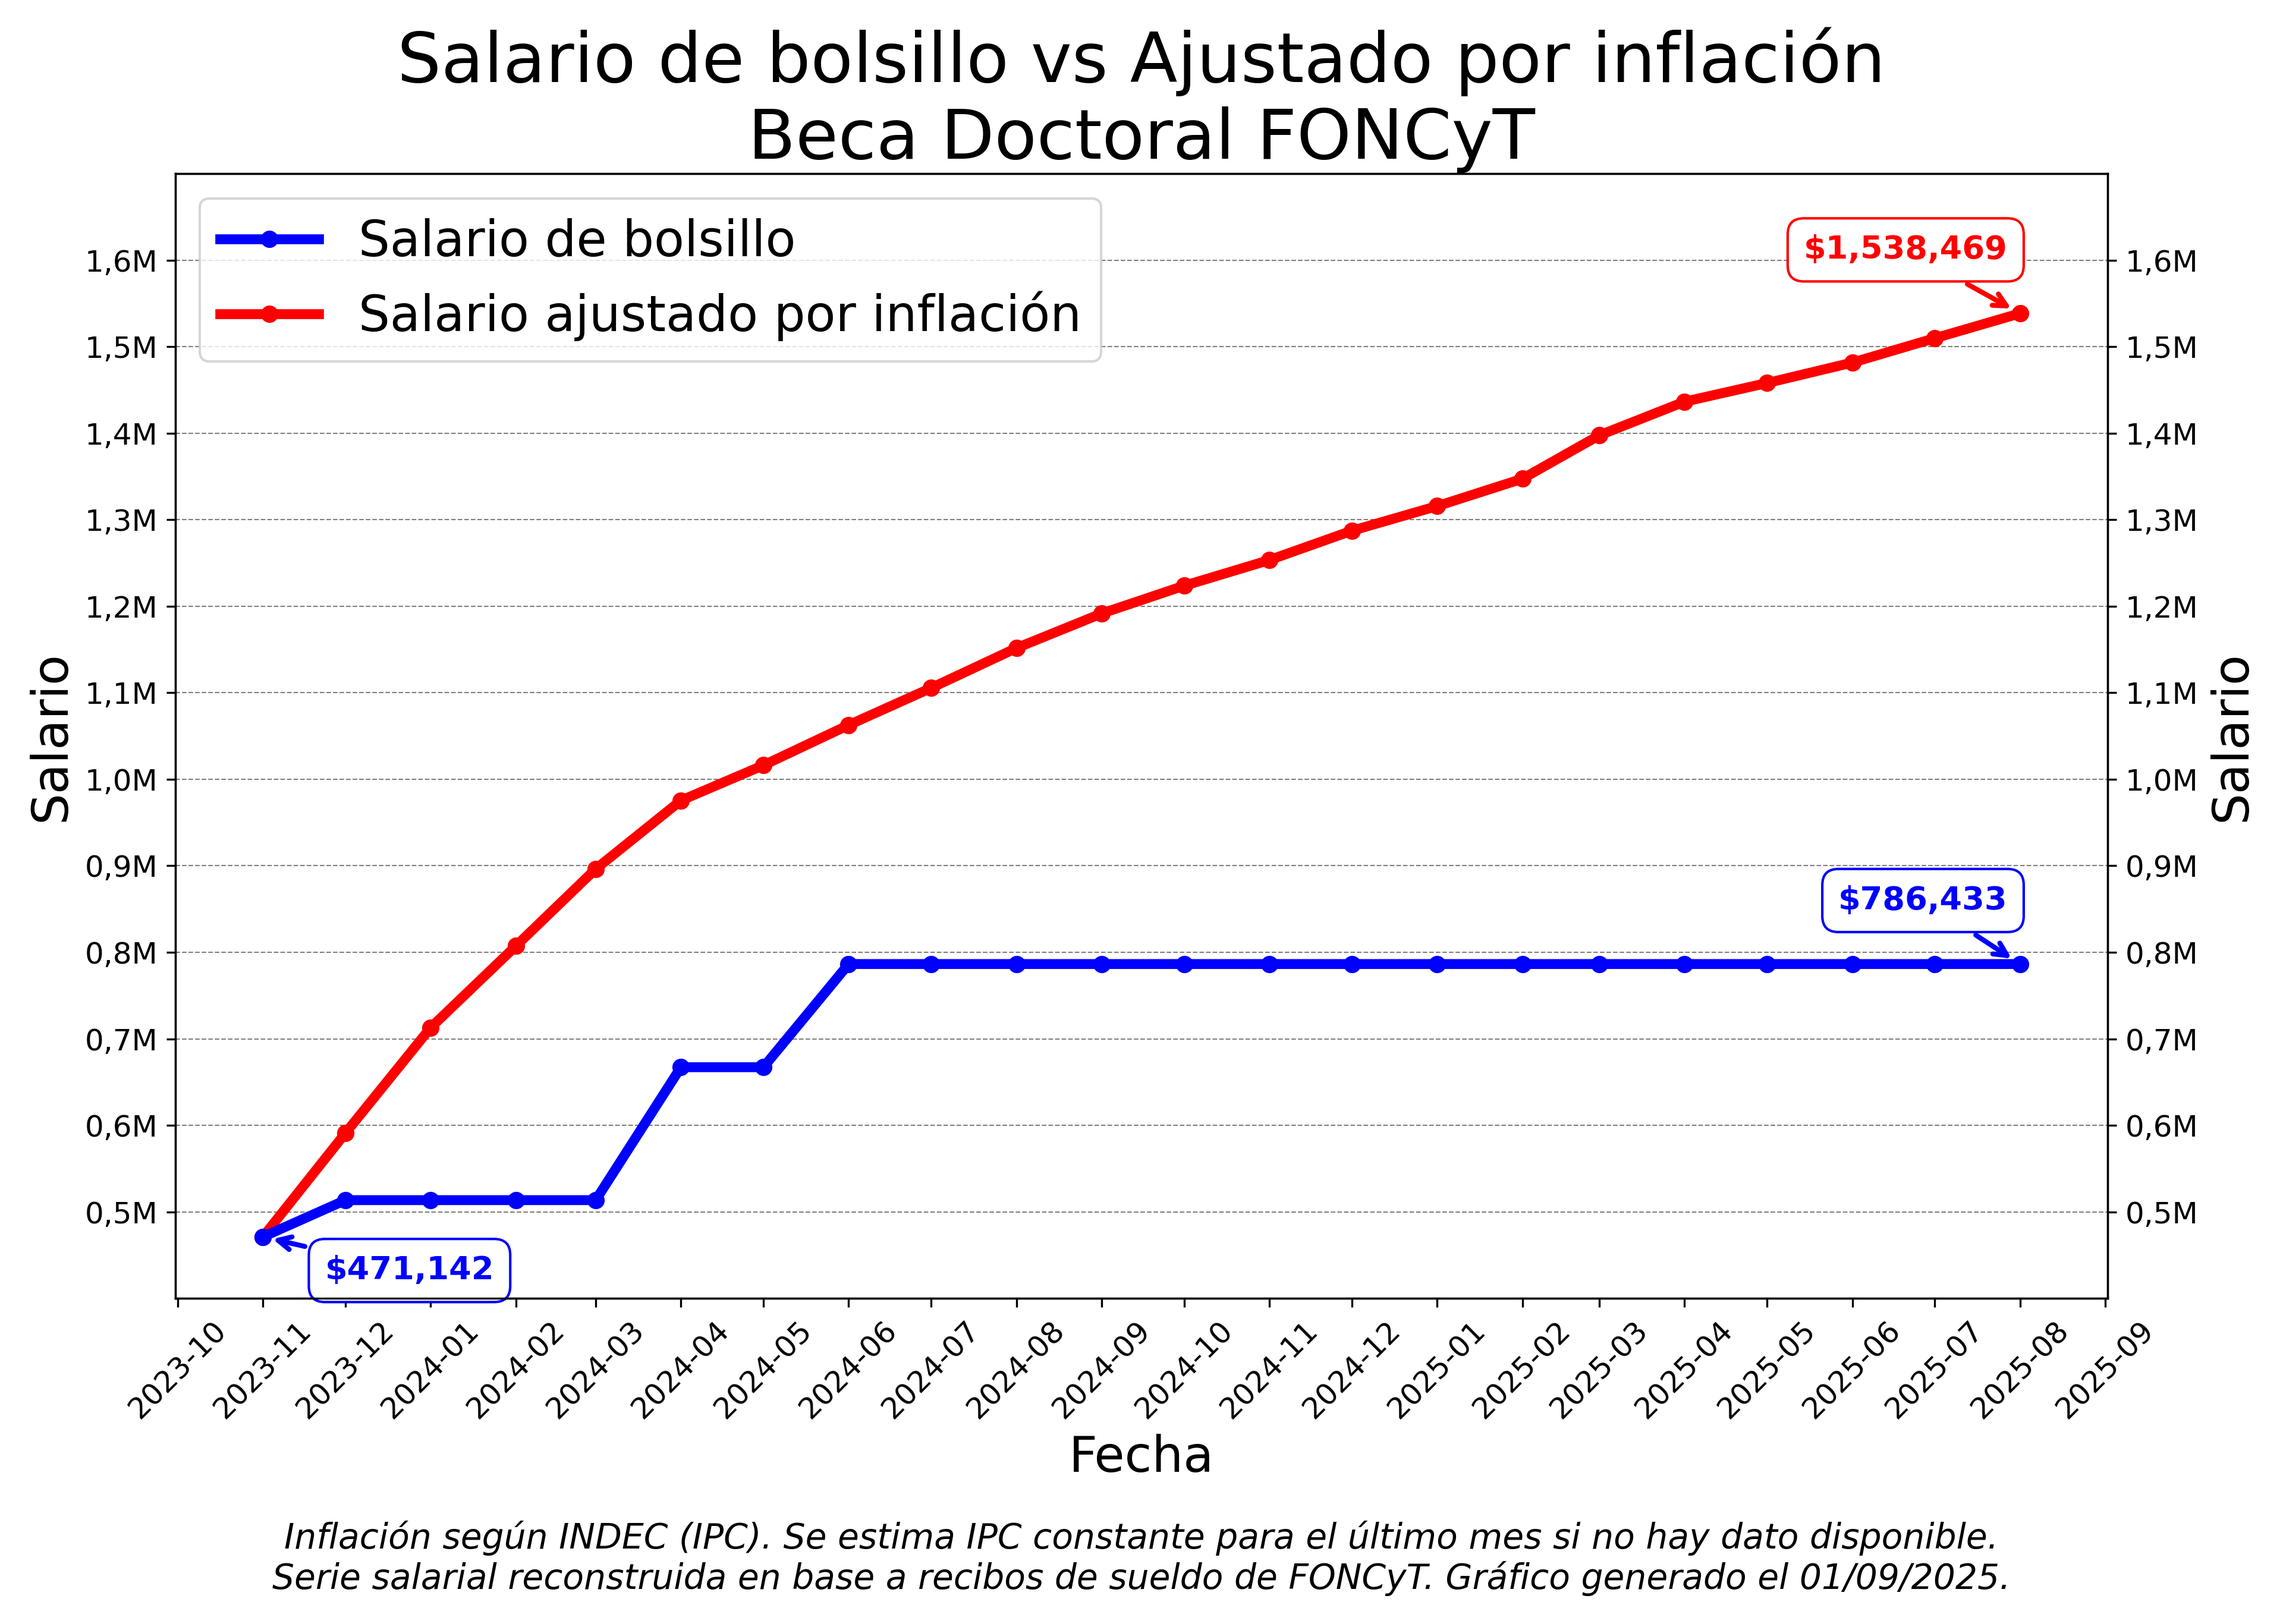
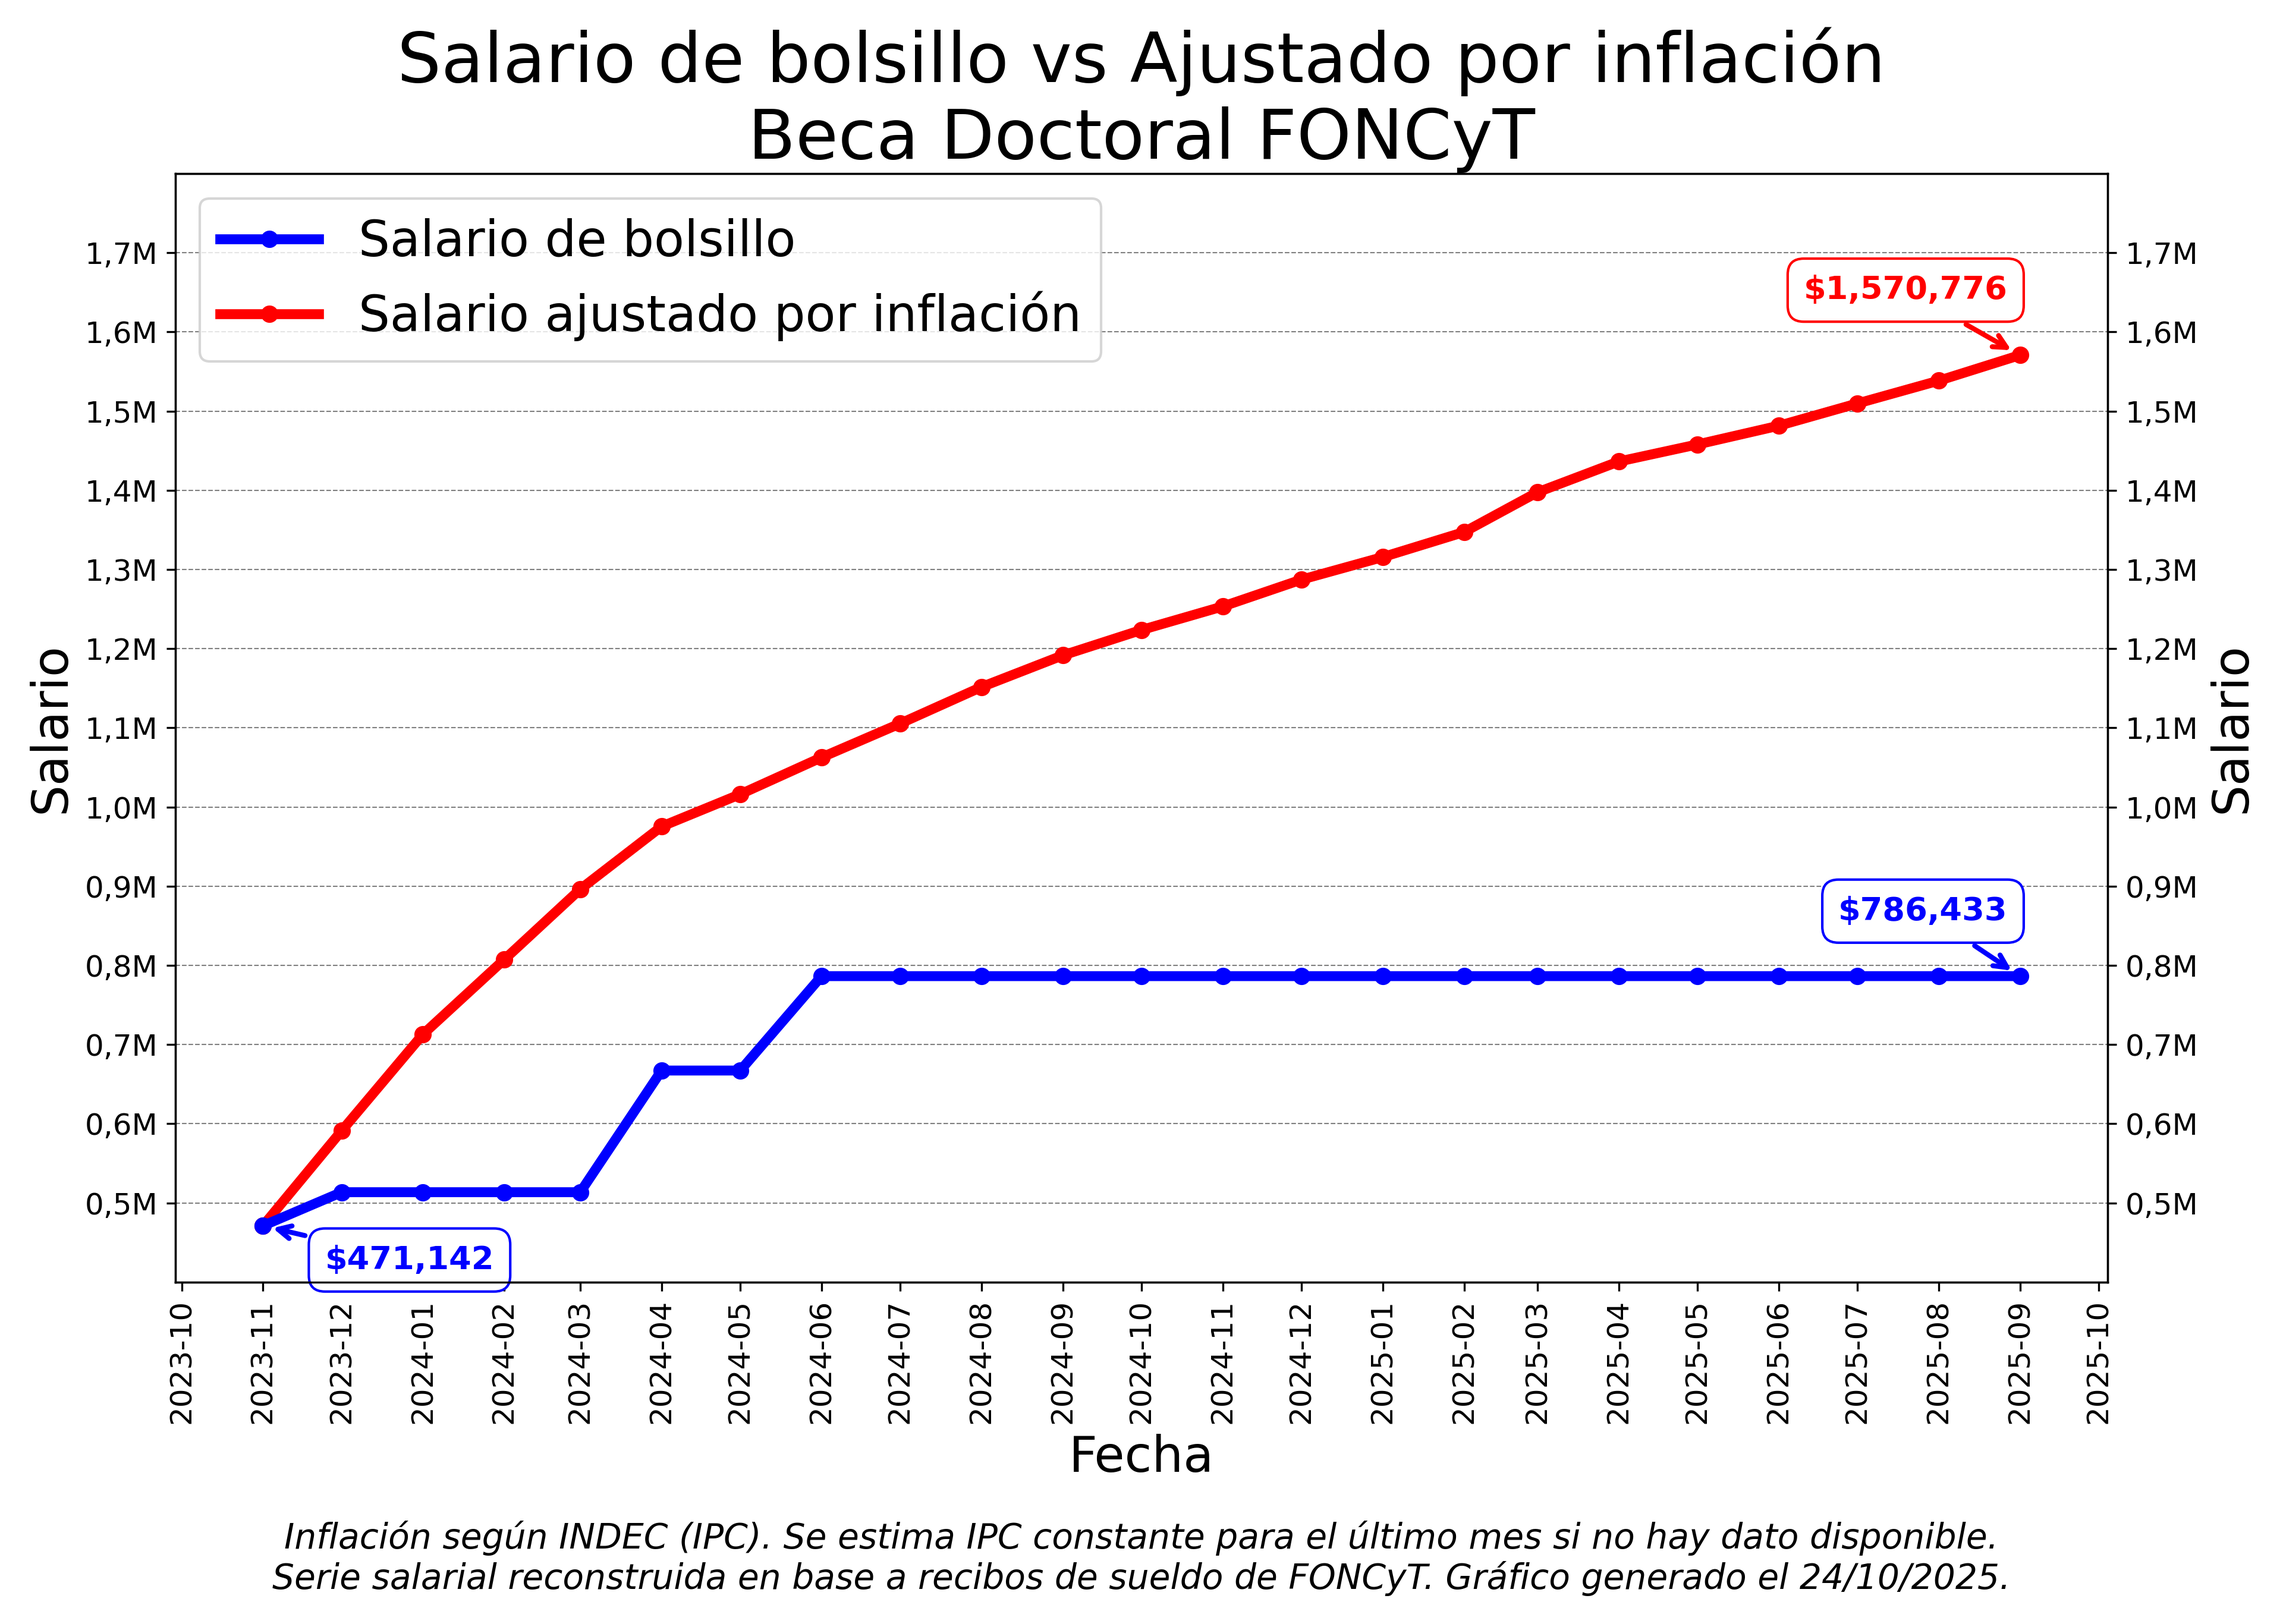
update foncyt

diff --git a/graf_cic.py b/graf_cic.py
@@ -222,7 +222,7 @@ def plot_nominal_vs_adjusted(csv_file, title_prefix,subtitle, output_filename, f
     # X axis formatting
     ax.xaxis.set_major_formatter(mdates.DateFormatter('%Y-%m'))
     ax.xaxis.set_major_locator(mdates.MonthLocator())
-    ax.tick_params(axis='x', rotation=45, labelsize=12)
+    ax.tick_params(axis='x', rotation=90, labelsize=12)
     ax.tick_params(axis='y', labelsize=12)
     ax2.tick_params(axis='y', labelsize=12)
     
